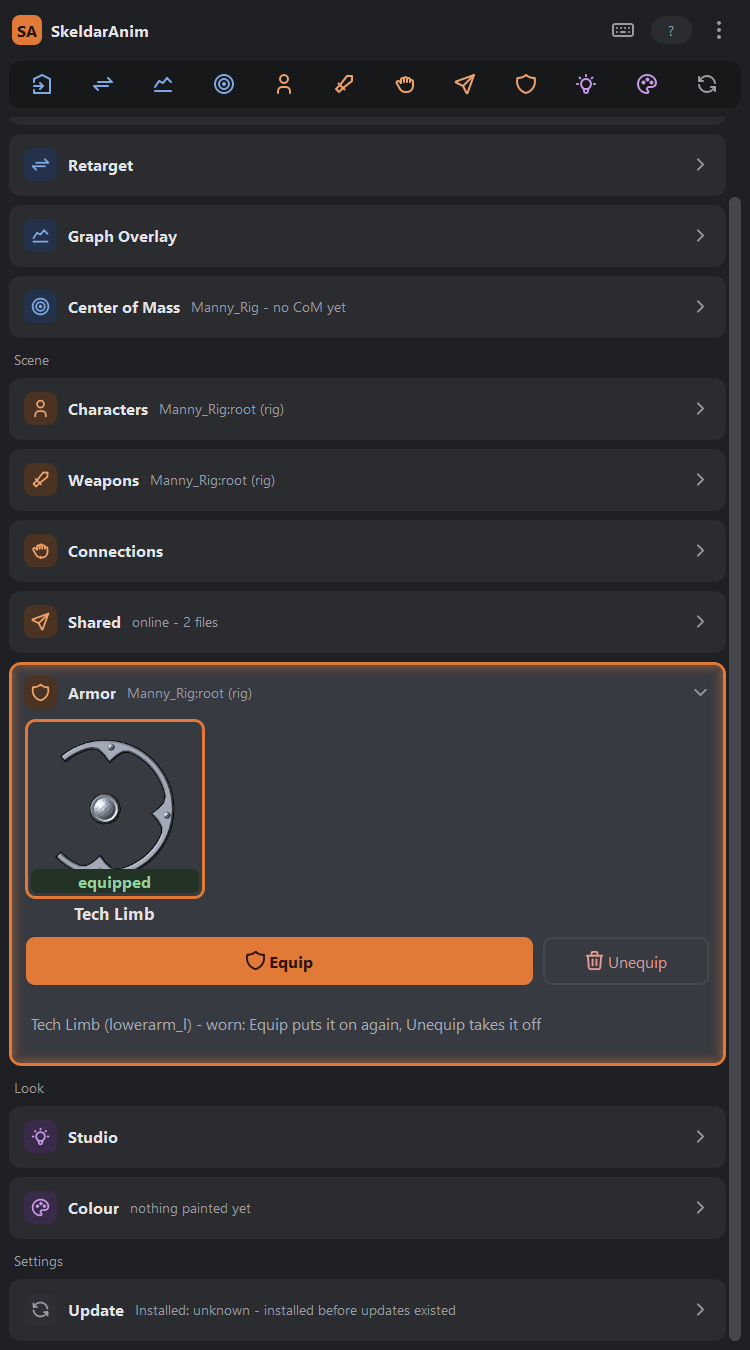
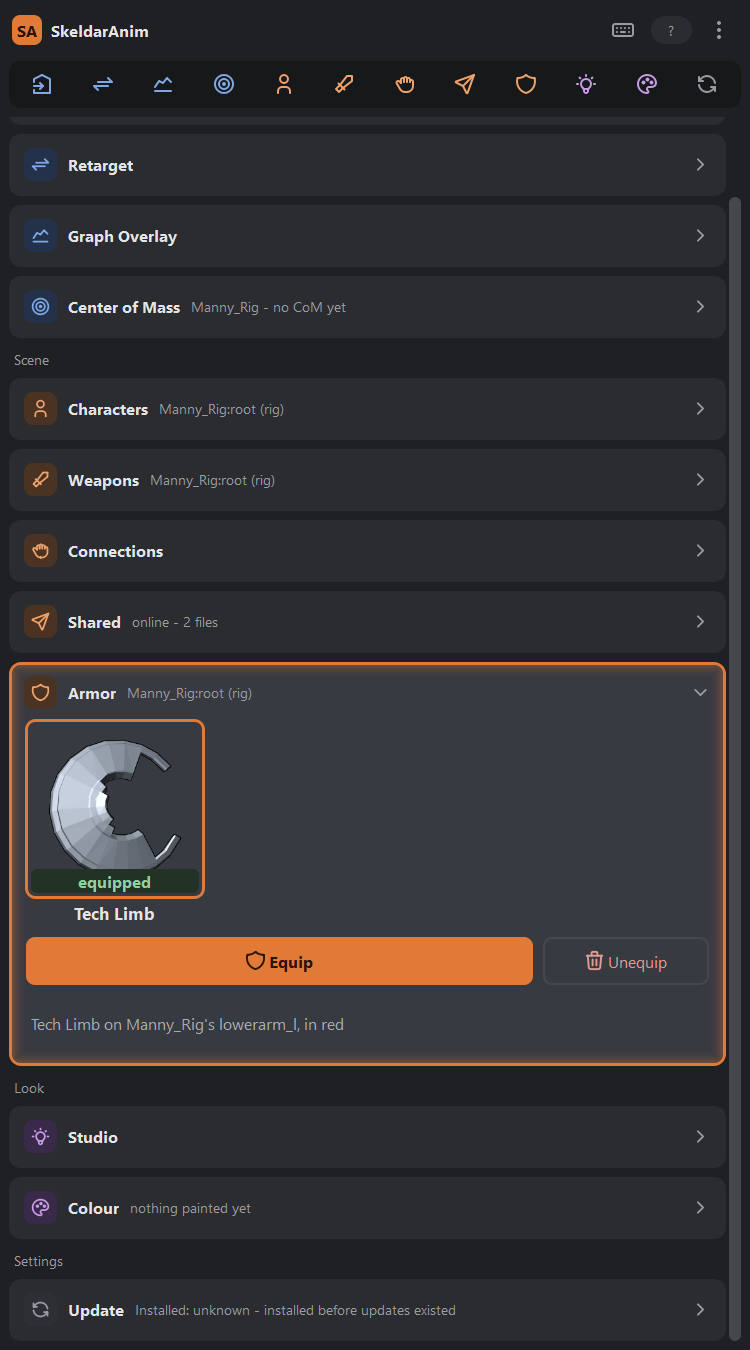
docs(armor): CLAUDE.md - the skeletal shield; the live card and the shield photographed again

diff --git a/CLAUDE.md b/CLAUDE.md
@@ -7455,92 +7455,105 @@ the cards keeps the loop's p99 turn at 6.5 ms, the screen's pixels the lit ring 
 and face (56, 58, 65) = card_active, a dark ring the plain card; off = instant. `verify_hub_motion.py` 12/12
 again on the new frame. 3284 unit tests.
 
-## Armor: the Tech Limb out of Atone, a card that equips it (2026-10-01)
+## Armor: the Tech Limb's shield out of Atone, a card that equips it (2026-10-01)
 
 The animator, with the Atone editor open: «достанем technolimb сам его fbx и добавим его ... в наши ассеты с
 возможностью одеть ... не будем добавлять его в панель с оружием а сделаем для него отдельную панель Armor в
 которой пока будет только техно лимб но позже мы добавим еще разные варианты одежды и брони ... не нужно делать
 сетчатый инвентарь а просто будем выделять предмет нажимать кнопочку equip и он будет добавляться к нашему
-персонажу в заранее указанное место». Asked: the item is **the plate only**, and the card shows **icon tiles**.
-Spec `docs/superpowers/specs/2026-10-01-armor-techlimb-design.md`, plan beside it.
+персонажу в заранее указанное место». Asked: icon tiles. Spec
+`docs/superpowers/specs/2026-10-01-armor-techlimb-design.md` — **read its addendum**: the first build shipped the
+wrong mesh.
 
 **What the Tech Limb is in Atone** (measured over Remote Execution, project `Atone`):
-- `DA_Techlimb.equip_socket` = `lowerarm_l`. `UEquipmentComponent::AttachActorToSocket` snaps the actor
-  (`SnapToTargetNotIncludingScale`) to that socket, and neither `SKM_Manny_Simple_3p` nor `_1p` has a socket of
-  that name, so it lands on the bone.
-- `BP_Techlimb`'s visible parts:
-  - **`SM_Shield_Test`**: the plate, a shield frame, a ring with a boss and three studs. Its source is
-    `S3.obj` on the Desktop. 1526 render vertices, at (0.079, −0.550, 0.328) / (P 1.187, Y 89.817,
-    R 84.316) / scale 1.17647. It wears `M_TechLimb_Test`, a constant grey.
-  - `SKM_Techlimb_Shield_Energy`, shown only while blocking. Not taken.
-  - Niagara.
+- Both techlimb items (`DA_Techlimb`, and the test roster's `DA_EquipmentItem_TechlimbTestStartingRoster`) equip
+  on `lowerarm_l`. `UEquipmentComponent::AttachActorToSocket` snaps the actor (`SnapToTargetNotIncludingScale`)
+  there, and no Manny mesh has a socket of that name: it is the bone.
+- The production `BP_Techlimb` shows `SM_Shield_Test`, a static plate centred on the elbow, plus an energy shield.
+  **That plate was the first build — wrong** («совсем не так как в игре ... в игре у нас есть скелет для щита»).
+- **The shield the game animates is `SKM_Techlimb_Shield`**. Its source is
+  `atone-art/Prototype/Meshes/Export/Techlimb_Shield.fbx`, 407 vertices, on `SK_Techlimb_Shield`: `Root`, `Main`
+  under it (socket `EnergySieldSocked`), and 36 `joint_on_vertex_NNN` rim joints under `Main`.
+- `BP_Techlimb_TestStartingRoster` puts it at identity on the actor root. `ABP_Shield` plays
+  `AS_Techlimb_Shield_Block_In/Idle/Out_1P`: In opens the rim from `Main`'s centre, Out folds it back.
+- **Those clips `force_root_lock` to the REF pose.** Their `Root` track holds a world position from the
+  animator's scene, (17, 34, 138), and the game ignores it: `Root` stays on `lowerarm_l`, and only `Main` and the
+  rim move.
+- In Block Idle, `Main` is 21 cm down the forearm. The animator's `Animations/Rigs/Weapons/Shield_rig.ma` is the
+  shield rig, and `TechnoLimb/New/LongSword_technoLimb_Block_1P_03.ma` constrains its `Root` onto `lowerarm_l`
+  (0.000 at every sampled frame).
 
-  The C++ root `Mesh` holds nothing; every form's `Mesh` is null.
-
-**The asset: the game's placement baked into the points.**
-- `export_techlimb_from_unreal.py` (uelink) writes `sources/armor/`:
-  - the FBX;
-  - `techlimb_ue.json`: the vertices in mesh, bone and component space, computed by Unreal itself
-    (`MathLibrary.transform_location`, `AnimPoseExtensions.get_ref_bone_pose(..., WORLD)`,
-    `ProceduralMeshLibrary.get_section_from_static_mesh`, components read through `SubobjectDataSubsystem`).
-- `make_techlimb_asset.py` measures the maps (`ue_maya_axes.py`, numpy):
-  - Unreal component space → Maya is (x, z, y), over 82 deforming bones to 0.073 cm (Manny's own calf);
-  - Unreal's `lowerarm_l` axes → Maya's are diag(1, −1, 1);
-  - the imported FBX's points are a signed permutation of Unreal's mesh space, to 2e-6 cm.
-- It writes `assets/Armor/Tech_Limb.fbx` (`TechLimbMesh`, 48.7 KB) with the points in Manny's `lowerarm_l`
-  axes. The similarity was fitted at scale 1.176471 and frozen, so the normals turn with the points. Read back:
-  identity, on Unreal's place to 6e-6 cm.
-- Equipped, the plate stands at identity in its space and its channels read 0 where the game puts it: the
-  weapons' «без офсетов» rule.
+**The asset**:
+- `export_techlimb_shield_from_unreal.py` (uelink) writes `sources/armor/`:
+  - `SKM_Techlimb_Shield.fbx`;
+  - `techlimb_shield_ue.json`: every bone's reference pose, local and component space; the Idle clip's locals;
+    the game's Idle component pose, composed by Unreal itself with `Root` at its reference.
+- `make_techlimb_shield_asset.py` builds `assets/Armor/Tech_Limb_Shield.ma` (175 KB):
+  - a group `TechLimbShield` stands for `lowerarm_l`'s space;
+  - each joint is posed by **Unreal's own reference→Idle motion**, `D = T_idle T_ref⁻¹`, mapped through N
+    (Unreal `lowerarm_l` axes → Maya's, diag(1, −1, 1), measured over Manny's bind) and applied to where the
+    import put that joint (G, the import's map, a signed permutation to 7e-7 cm);
+  - the skinned mesh is bound where the import put it, not inheriting, so the skin alone moves it.
+- On Manny: every joint where the game puts it, to 3e-14 in the asset and to 1.3e-4 cm against Unreal through the
+  rig.
+- The morning's plate scripts (`export_techlimb_from_unreal.py`, `make_techlimb_asset.py`) and
+  `sources/armor/SM_Shield_Test.fbx` stay as the record. `assets/Armor/Tech_Limb.fbx` is gone.
 
 **In the scene**:
-- `maya_scenesetup/armor.py`. A piece hangs in an **armor space** (`lowerarm_l_armorSpace`, marked
-  `mayaArmorSpace`): a transform parent-constrained to the bone with no offset, in an `ArmorSpaces` group under
-  the rig's group (at world level beside a bare skeleton). It is never in the skeleton, so the export stays bones
-  only and a retarget moves it with the bone.
-- `weaponspace`'s machinery is generic over its markers since: `marked_space_of`, `ensure_marked_space`,
-  `prune_marked`, `owner_for`, `bone_of`. The weapon API kept its names, and neither kind finds the other's space.
-- A piece carries `mayaArmor` (its row's key) and `mayaArmorSlot`. `slot_plan` (pure): an Equip takes off what
-  its slot holds, and the same piece again is replaced.
-- It wears the next free palette colour (the Colour card repaints it; a textured row would wear its image).
-  What follows the import runs unrecorded (trap 115).
+- `maya_scenesetup/armor.py`. A piece hangs in an **armor space** (`<bone>_armorSpace`, marked `mayaArmorSpace`):
+  a transform parent-constrained to the bone with no offset, in an `ArmorSpaces` group under the rig's group (at
+  world level beside a bare skeleton). It is never in the skeleton, so the export stays bones only and a
+  retarget moves it with the bone.
+- `weaponspace`'s machinery is generic over its markers since then: `marked_space_of`, `ensure_marked_space`,
+  `prune_marked`, `owner_for`, `bone_of`. The weapon API kept its names.
+- **A skeletal piece is its `.ma`'s one group**, imported into a namespace of its own (`Tech_Limb`,
+  `Tech_Limb1`, …; a namespaced root is never a bridge target), at identity in the space, marked `mayaArmor` /
+  `mayaArmorSlot` / `mayaArmorNamespace`. Unequip deletes it and removes the namespace with what is left (skin,
+  bind pose, its own material). A static piece (an FBX with one mesh) still works the plate's way.
+- `slot_plan` (pure): an Equip takes off what its slot holds; the same piece again is replaced.
+- The next free palette colour (the Colour card repaints a selected shield). What follows the import runs
+  unrecorded (trap 115).
 - A selected piece names its character (`skeleton.current_root` → `armor.bone_for`).
+- **`maya_overrig.active.character_roots` leaves every ArmorSpaces group out** (`ARMOR_GROUP_MARKER`, pinned
+  equal to `armor.GROUP_MARKER`). The shield's `Root` has no joint parent and would otherwise be one more
+  character.
 
-**The catalog**: `catalog.Armor(key, label, path, bone, slot, texture)` and `ARMOR`, one row:
-`Tech_Limb` on `lowerarm_l`, slot `left_forearm`. A future piece of armor or clothing is a row, plus its icon
-(`make_armor_icons.py` → `assets/armor_icons/<key>.png`; a test pins one per row). Its points must already be in
-its bone's axes at its place.
+**The catalog**: `catalog.Armor(key, label, path, bone, slot, texture)` and `ARMOR`, one row: `Tech_Limb` →
+`Armor/Tech_Limb_Shield.ma` on `lowerarm_l`, slot `left_forearm`. A future piece is a row, plus its icon
+(`make_armor_icons.py` renders it from the posed, deformed mesh; a test pins one per row). Its model must already
+stand at its place in its bone's axes.
 
 **The Armor card**:
 - `maya_scenesetup/armorpanel.py`, the Scene group's last card. Connections and Shared are each pinned right
   after their neighbour by their own tests.
 - It holds the subtitle, the tiles, **Equip** (primary, `shield`) + **Unequip** (danger), and the line.
-- The tiles are `maya_armorgrid.py` (Qt, a payload row), laid over the `mayaSceneSetupArmorTiles` placeholder
-  with the portraits' Keeper:
+- The tiles are `maya_armorgrid.py` (Qt, a payload row), laid over `mayaSceneSetupArmorTiles` with the
+  portraits' Keeper:
   - a click picks (`mayaSceneSetup_armor`);
   - a worn row carries a green «equipped» pill;
   - the right button offers Open scene;
   - no drag.
 - Without Qt, a dropdown stands in.
-- The pills follow the selection through a `SelectionChanged` scriptJob parented to the line. One refresh
-  resolves the character once.
+- The pills follow the selection (a `SelectionChanged` job owned by the line).
 - The hotkey row is `window.armor`.
 
 **Proof**:
-- `verify_armor.py` **14/14 standalone**:
-  - on Manny, every plate vertex where Unreal puts it to 1.1e-4 cm (the map re-derived from the rig's own bones);
-  - channels 0, the space in `Manny_Rig:Group|ArmorSpaces`;
-  - the Creep and the Orc D at identity on their own `lowerarm_l`;
+- `verify_armor.py` **15/15 standalone**, against Unreal:
+  - on Manny, all 38 shield joints where the game's Block Idle puts them, to 1.3e-4 cm (the map re-derived from
+    the rig's own bones);
+  - the mesh following the joints only, to 2.5e-5 cm;
+  - the Creep and the Orc D the same;
+  - the shield's `Root` no character;
   - a second Equip replacing;
-  - LongSword_Attack_Right_Heavy_3P retargeted through the button: the piece on the bone to 4e-6 over 208 cm;
-  - the export 93 joints, 0 meshes;
-  - a bare skeleton's space at world level;
-  - Unequip leaving nothing;
+  - LongSword_Attack_Right_Heavy_3P retargeted: the shield on the bone to 4e-6 over 208 cm;
+  - the export 93 joints, none of the shield's;
+  - Unequip leaving no node and no namespace;
   - the others unmoved.
-- A disposable GUI Maya (port 7031, the plugin from a `git archive` of HEAD): the tile clicked, then Equip and
-  Unequip pressed through Qt (the pill on and off, nothing left, a second Unequip «does not wear»). Pictures:
-  `docs/superpowers/plans/armor_card.png`, `armor_techlimb_on_manny.png`.
-- 3434 unit tests.
+- A disposable GUI Maya (port 7031, a `git archive` of HEAD): the tile, Equip and Unequip pressed through Qt.
+  Pictures: `docs/superpowers/plans/armor_card.png`, `armor_techlimb_on_manny.png`.
+- 3438 unit tests.
+- **Not built**: exporting the shield's own clip to Unreal (`Root` at its reference, `Main` + rim baked) — the
+  next step («делай как лучше»).
 
 152. **Atone's `SK_Mannequin_proto` and our Manny agree on every deforming bone and NOT on the helpers**:
      `weapon_r` 5.7 cm, `camera_root` 4.0, `weapon_l` 2.4, `camera_bone` 1.0 apart. A UE↔Maya axis fit over
@@ -7548,3 +7561,14 @@ its bone's axes at its place.
 153. **A hub card's place can be pinned by ANOTHER feature's test**: `test_scenesetup_connections` pins
      Connections right after Weapons, `test_share` Shared right after Connections. A new card inserted between
      them fails both; the Scene group's end is free.
+154. **A UE skeletal FBX's joints do not share one axis convention in Maya.** Unreal's bone frame → Maya joint
+     frame was one matrix for `Root`/`Main` (they sit under the importer's −90 X wrapper) and another for the 36
+     rim joints (each carrying a local 90° rotate). Posing joints "as Unreal's frames times a convention K"
+     failed outright. What the skin sees is each joint's MOTION from its bind, so pose by Unreal's own
+     `T_pose T_ref⁻¹` mapped into Maya and applied to the imported world matrix: no per-joint convention enters.
+     And trap 51 again on the way: the importer LOCKS the skinned mesh's t/r/s, so its re-parent silently lost
+     the wrapper's −90 X. Unlock it first.
+155. **"Which mesh is the item" was asked before the meshes were understood.** The production BP showed a static
+     plate; the animator knew the skeletal shield the game animates (a test BP, its clips, their own rig in
+     `Rigs/Weapons`). Before asking which of several assets is "the thing", trace what plays in the game (the
+     anim BP, the clips, root lock) and what the animators' own scenes use.
